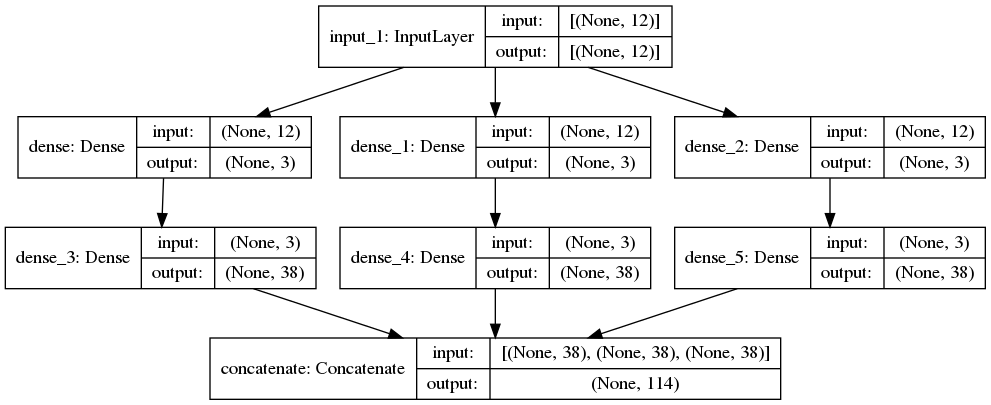
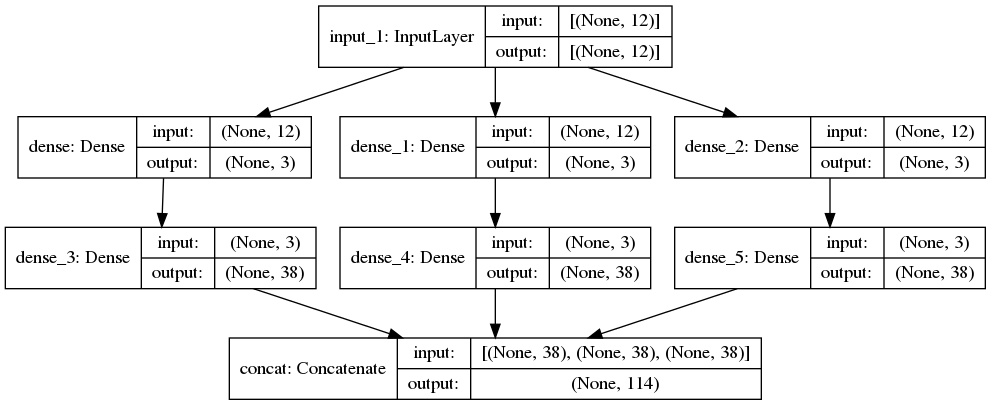
cannot repair for loading model

diff --git a/soma_tools/scripts/train_localization_dataset.py b/soma_tools/scripts/train_localization_dataset.py
@@ -1,4 +1,4 @@
-#!/usr/bin/env python3
+#!/usr/bin/python
 
 import os
 import sys
@@ -18,8 +18,7 @@ TRAIN_X_DATASET_NAME = '/home/hayashi/catkin_ws/src/soma_pkg/soma_tools/data/x_t
 TRAIN_Y_DATASET_NAME = '/home/hayashi/catkin_ws/src/soma_pkg/soma_tools/data/y_train-test.txt'
 MODEL_NAME='/home/hayashi/catkin_ws/src/soma_pkg/soma_tools/models/model-test.h5'
 
-EPOCH = 100
-
+EPOCH = 10
 
 def make_train_model(num_inputs, num_trees):
     # input layer
@@ -36,7 +35,7 @@ def make_train_model(num_inputs, num_trees):
     output_beta = layers.Dense(num_trees, activation='softmax')(dense_beta)
     output_gamma = layers.Dense(num_trees, activation='softmax')(dense_gamma)
 
-    outputs = layers.Concatenate(axis=1)(
+    outputs = layers.Concatenate(name='concat',axis=1)(
         [output_alpha, output_beta, output_gamma])
 
     model = tf.keras.Model(inputs=inputs,
@@ -92,4 +91,4 @@ if __name__ == '__main__':
             epochs=EPOCH,)
 
     dt = datetime.datetime.now()
-    model.save(MODEL_NAME,)
+    model.save(MODEL_NAME,save_format='h5')

diff --git a/soma_tools/scripts/make_localization_dataset.py b/soma_tools/scripts/make_localization_dataset.py
@@ -1,4 +1,4 @@
-#!/usr/bin/env python3
+#!/usr/bin/python3
 
 import numpy as np
 import itertools
@@ -7,11 +7,11 @@ import scipy.spatial as ss
 from scipy.spatial import distance
 
 # input
-Q_SET_PATH = '/home/hayashi/catkin_ws/src/soma_pkg/soma_tools/data/Q-set2.txt'
+Q_SET_PATH = '/home/hayashi/catkin_ws/src/soma_pkg/soma_tools/data/Q-set-test.txt'
 TREE_LOCATION_PATH = '/home/hayashi/catkin_ws/src/soma_pkg/soma_tools/data/TreeLocations_Mirais.txt'
 # output
-TRAIN_X_DATASET_NAME = '/home/hayashi/catkin_ws/src/soma_pkg/soma_tools/data/x_train2.txt'
-TRAIN_Y_DATASET_NAME = '/home/hayashi/catkin_ws/src/soma_pkg/soma_tools/data/y_train2.txt'
+TRAIN_X_DATASET_NAME = '/home/hayashi/catkin_ws/src/soma_pkg/soma_tools/data/x_train-test.txt'
+TRAIN_Y_DATASET_NAME = '/home/hayashi/catkin_ws/src/soma_pkg/soma_tools/data/y_train-test.txt'
 
 
 def search_neighbor_trees(M: np.array,

diff --git a/soma_samples/scripts/valid_localization.py b/soma_samples/scripts/valid_localization.py
@@ -1,0 +1,23 @@
+#!/usr/bin/python
+
+import os
+import sys
+import numpy as np
+import datetime
+import time
+from sklearn import preprocessing
+
+# tensorflow,keras by functional API
+import tensorflow as tf
+import tensorflow.keras
+from tensorflow.keras import models
+from tensorflow.keras import layers
+
+TREE_LOCATION_PATH = '/home/hayashi/catkin_ws/src/soma_pkg/soma_tools/data/TreeLocations_Mirais.txt'
+TRAIN_X_DATASET_NAME = '/home/hayashi/catkin_ws/src/soma_pkg/soma_tools/data/x_train-test.txt'
+TRAIN_Y_DATASET_NAME = '/home/hayashi/catkin_ws/src/soma_pkg/soma_tools/data/y_train-test.txt'
+MODEL_NAME='/home/hayashi/catkin_ws/src/soma_pkg/soma_tools/models/model-test.h5'
+
+#load model
+model = tf.keras.models.load_model(MODEL_NAME)
+model.summary()
